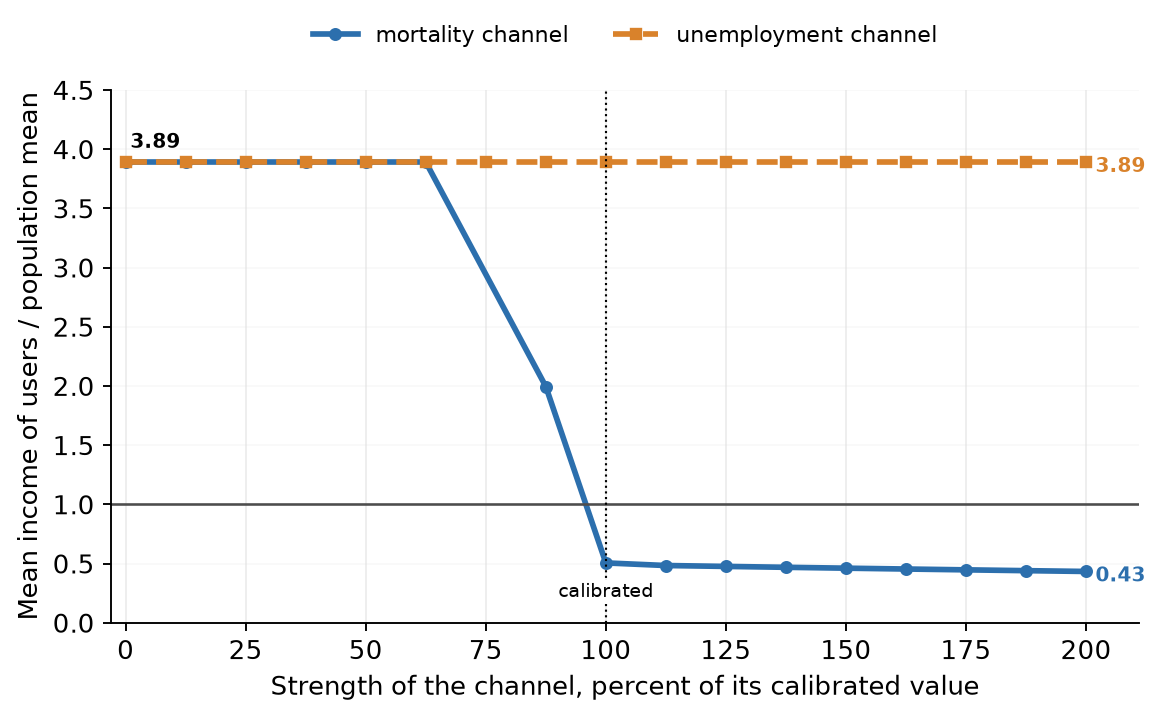
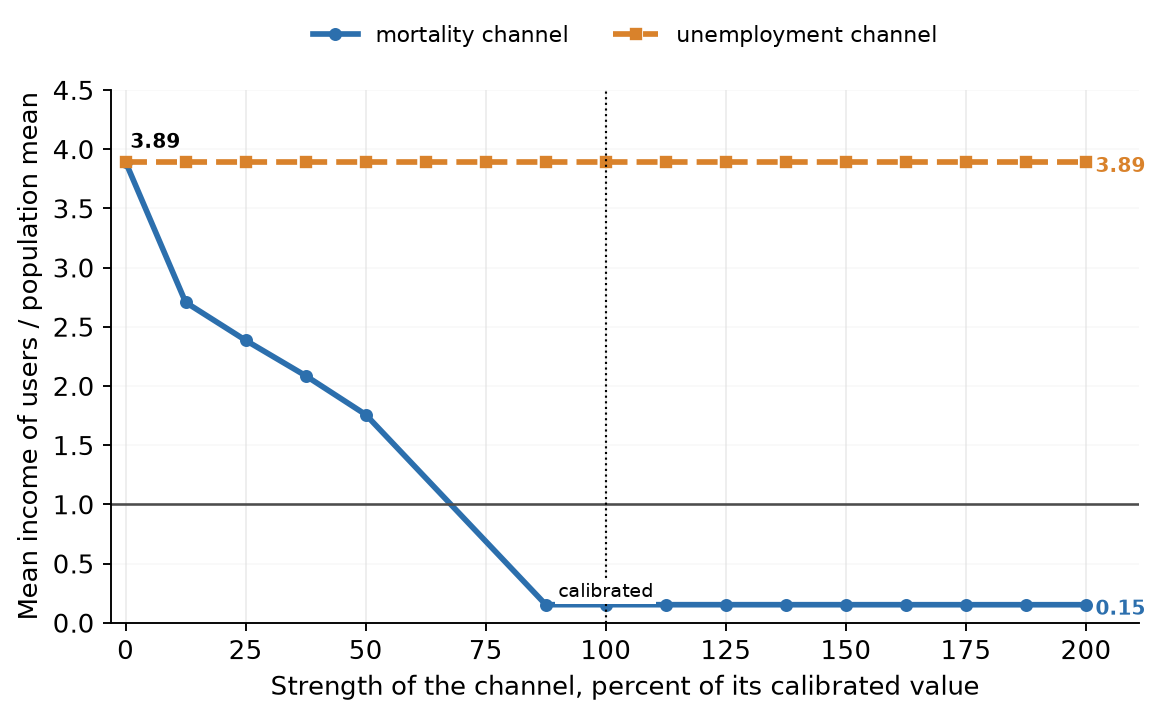
Figure 1 with h1 held at its calibrated value (awaiting the author's choice)
Recomputed with the unemployment channel moving u1 only: unemployment alone flat at
3.89; mortality alone 3.89 -> 1.76 at half strength -> 0.15 from 87.5 per cent on.
stage_results generates where the curve crosses one and what it does past 100 per cent.
The previous figure (h1 moving with the unemployment channel) is at 962008e9.

Claude-Session: https://claude.ai/code/session_01WpmVwzkbKX7RRP8t9yBCLv

diff --git a/code/stylized/stage_results.py b/code/stylized/stage_results.py
@@ -121,8 +121,21 @@ def revstart_names(sc, mort, part, ref):
     for s_, r_, k in zip(sc, mort, ok):
         if k and s_ <= 1.0 + 1e-9 and abs(r_ - off) <= 0.05 * abs(off):
             start = float(s_)
+    # WHERE THE CURVE CROSSES ONE, between the last drawn point above it and the first
+    # below, and what it does past the calibrated strength.  Once h1 was held at its
+    # calibrated value (the author, 29 September) the curve fell from the first step
+    # and the "hardly moves up to" reading had nothing left to describe.
+    pts = [(float(s_), float(r_)) for s_, r_, k in zip(sc, mort, ok) if k]
+    lo = max((s_ for s_, r_ in pts if r_ >= 1.0), default=0.0)
+    hi = min((s_ for s_, r_ in pts if r_ < 1.0 and s_ > lo), default=float('nan'))
+    r1 = next(r_ for s_, r_ in pts if abs(s_ - 1.0) < 1e-9)
+    rh = pts[-1][1]
+    hi_dir = ('stays at' if f'{rh:.2f}' == f'{r1:.2f}' else
+              'falls further to' if rh < r1 else 'rises back to')
     return dict(s1_revstart_pc=f'{100 * start:g}',
-                s1_revfrac=run._fraction_word(max(1.0 - start, 0.0)))
+                s1_revfrac=run._fraction_word(max(1.0 - start, 0.0)),
+                s1_cross_lo_pc=f'{100 * lo:g}', s1_cross_hi_pc=f'{100 * hi:g}',
+                s1_r_mort_hi_dir=hi_dir)
 
 
 def stage1_figure(par):
